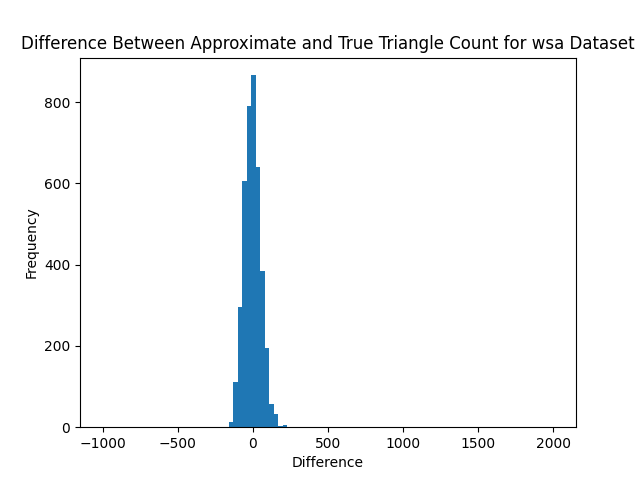
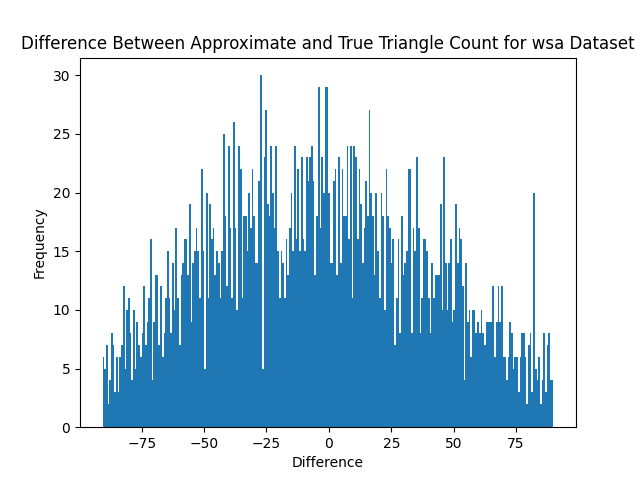
Make approx vs true tri count histograms more readable

diff --git a/thesis.py b/thesis.py
@@ -549,27 +549,30 @@ def run_sequential_estimation(s_values, powers, true_triangle_count, m, estimati
 
 def plot_histogram_of_triangle_diff(A, dataset_name):
   n = len(A)
-
+  
   slope, intercept = get_line_of_best_fit(A)
-
+  
   degree_array = np.sum(A, axis=1)
   approx_triangles = np.power(degree_array, slope) * np.exp(intercept)
-
-  true_triangles = [count_node_triangles(A, i) for i in range(n)]
-
+  
+  true_triangles = np.array([count_node_triangles(A, i) for i in range(n)])
+  
   diff_array = approx_triangles - true_triangles
-
-  # np.savetxt(f'diff_array_{dataset_name}.csv', diff_array, delimiter=',', fmt='%.6f')
-
-  plt.hist(diff_array, bins=100, range=(-1000, 2000))
-
+  
+  # remove outliers
+  lower_percentile = 5
+  upper_percentile = 95
+  lower_bound, upper_bound = np.percentile(diff_array, [lower_percentile, upper_percentile])
+  filtered_diff = diff_array[(diff_array >= lower_bound) & (diff_array <= upper_bound)]
+  
+  plt.hist(filtered_diff, bins=n//15)
   plt.xlabel('Difference')
   plt.ylabel('Frequency')
   plt.title(f'Difference Between Approximate and True Triangle Count for {dataset_name} Dataset')
   plt.savefig(f'plots/triangle_diff_histograms/{dataset_name}_triangle_diff.png')
   plt.close()
-
-  return diff_array
+  
+  return filtered_diff
 
 def generate_noise_plots(A, dataset_name):
   n = len(A)
